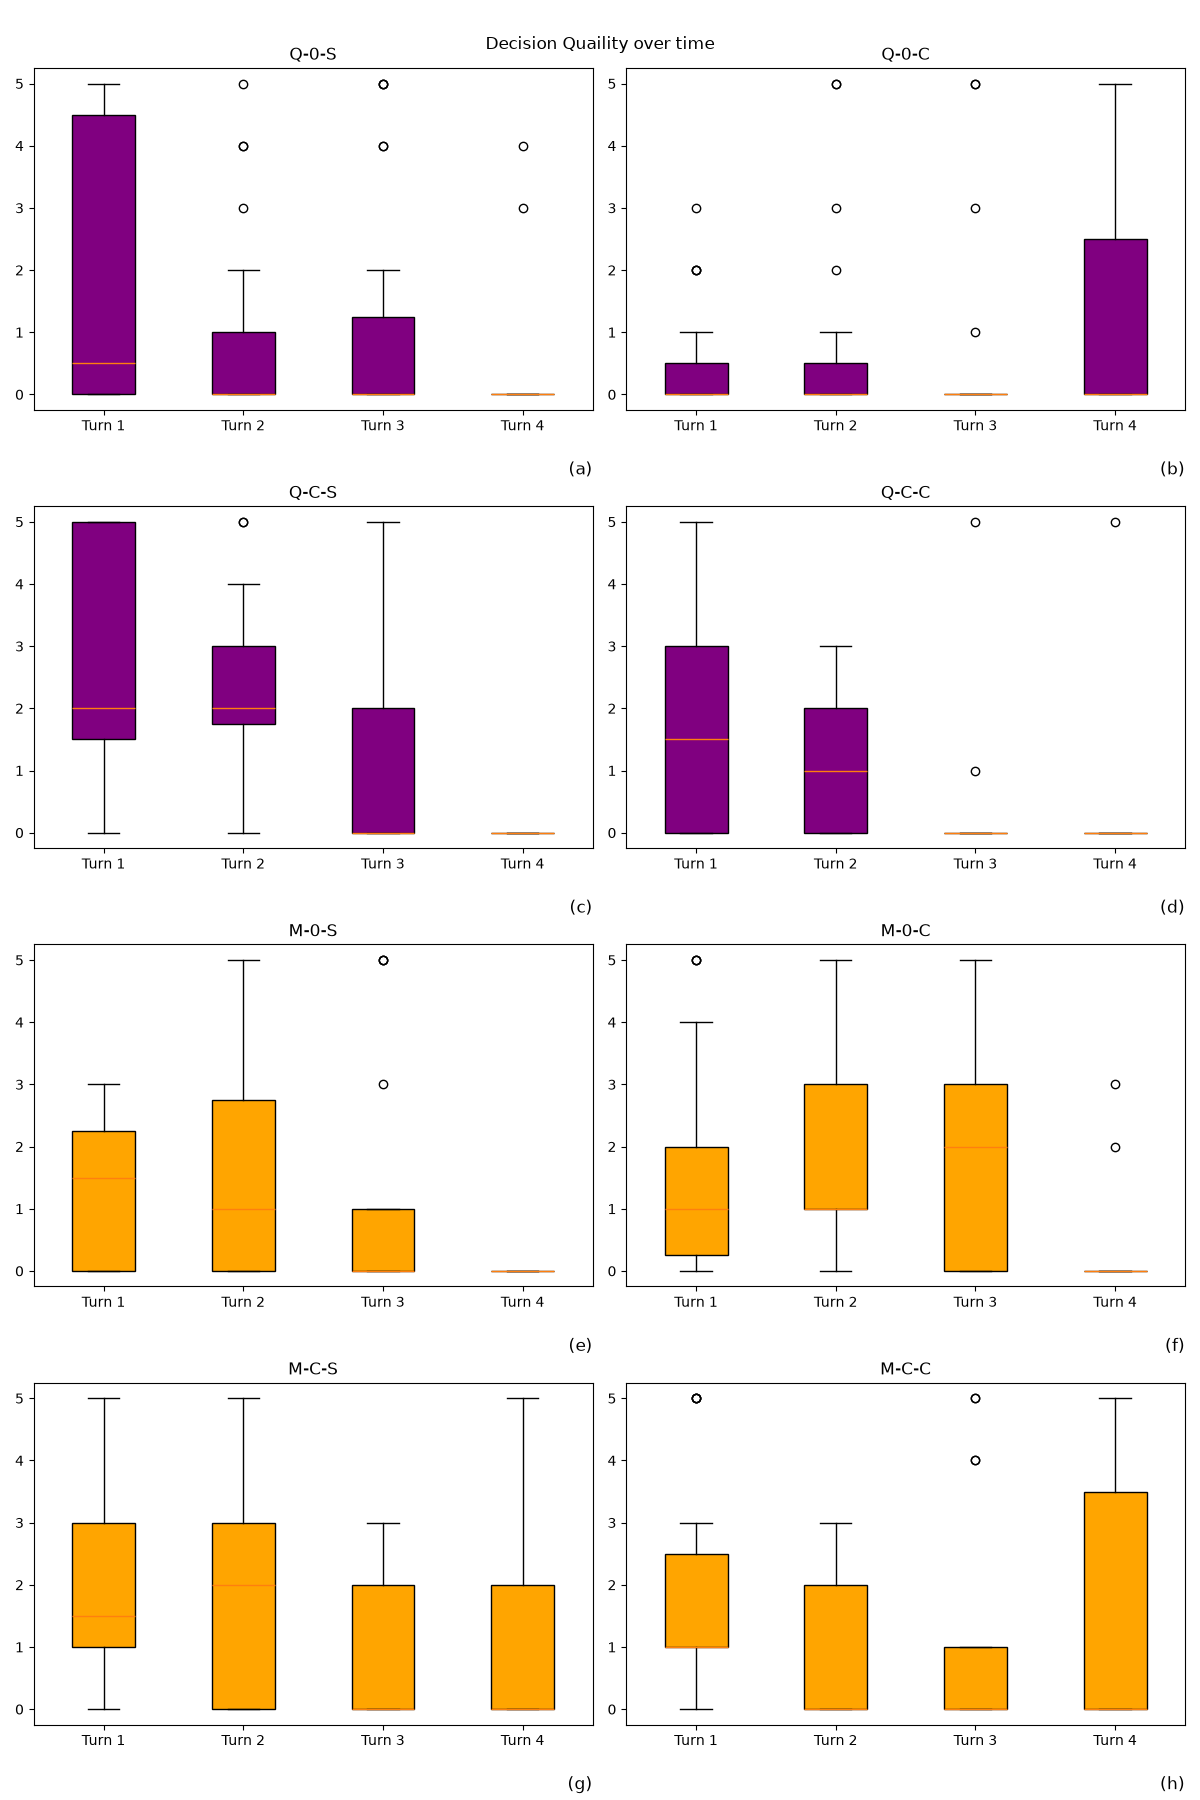
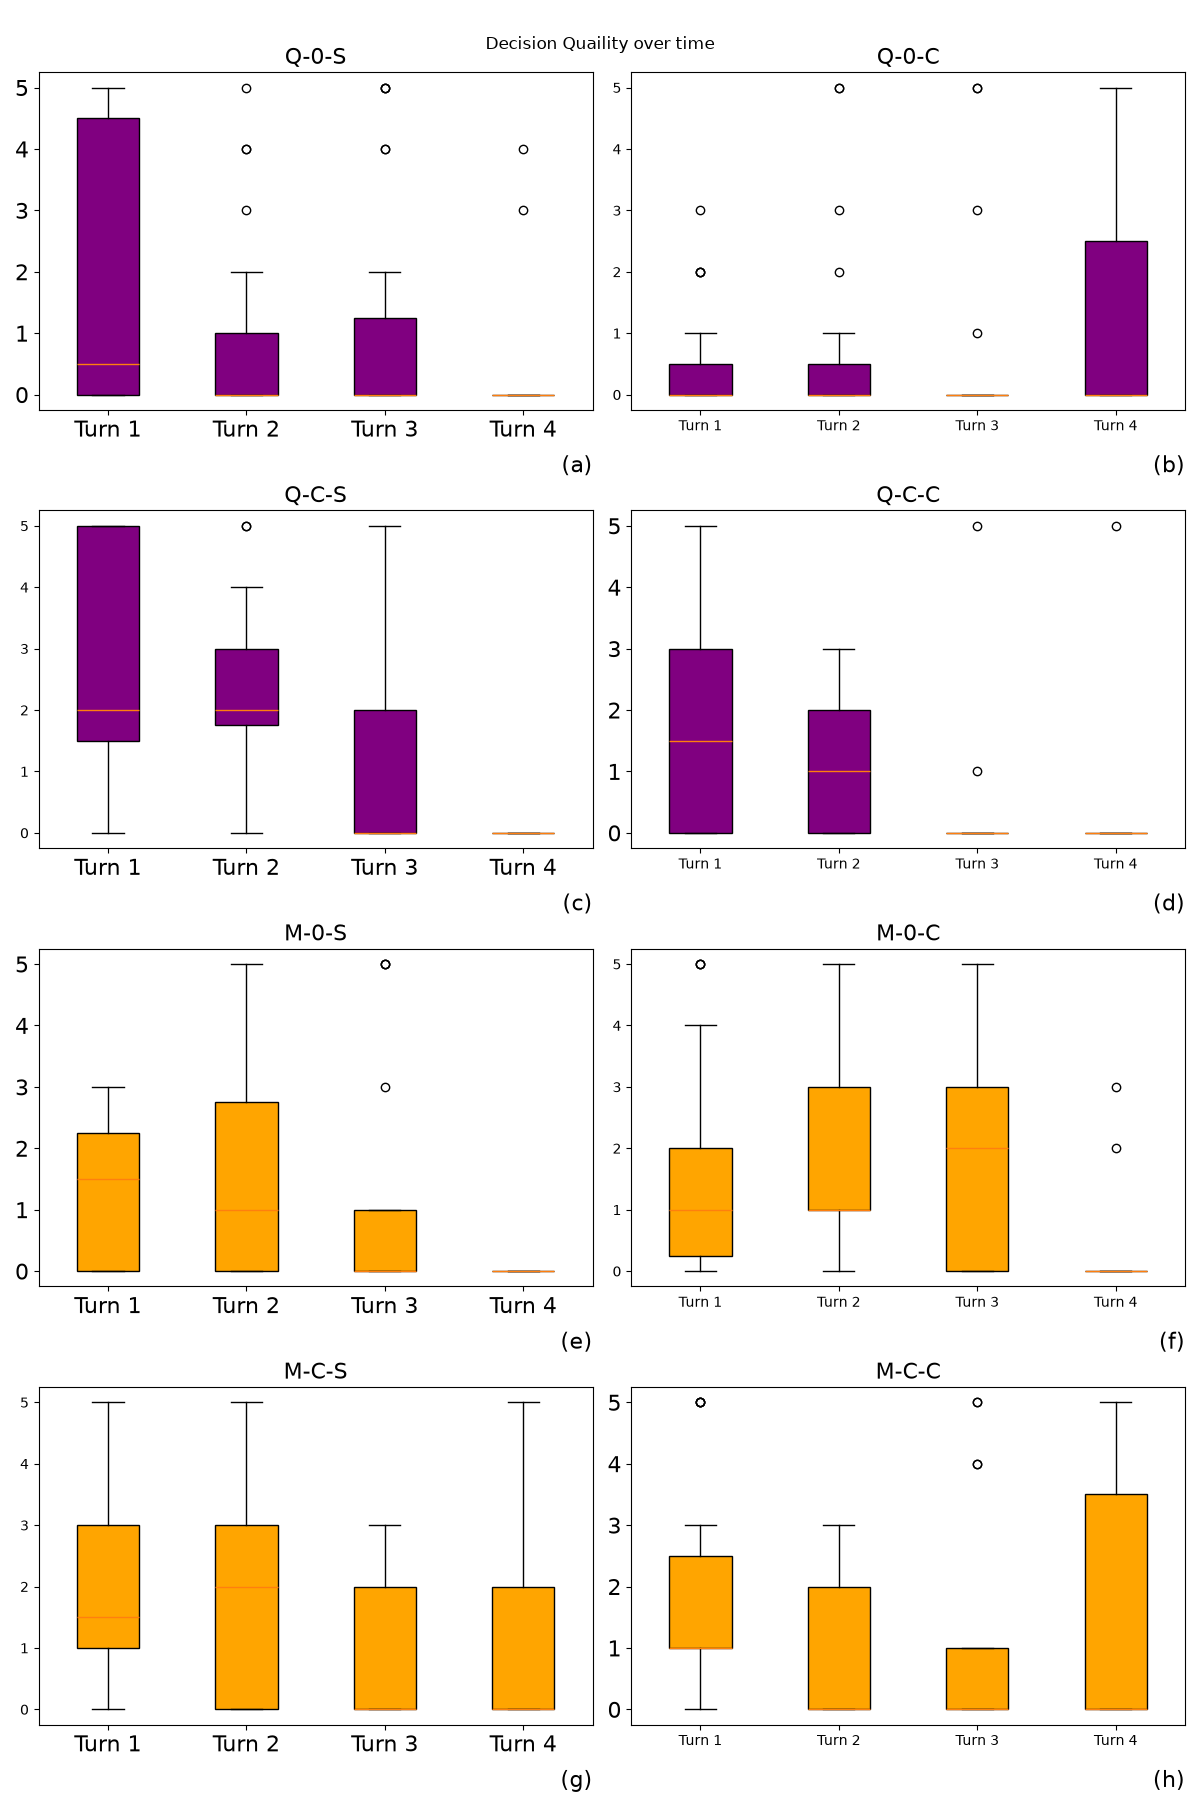
Updated quality over turn

diff --git a/quality_over_turn.py b/quality_over_turn.py
@@ -37,14 +37,14 @@ ax6 = ax[2,1].boxplot([df_cleaned_non_reasoning_dq.loc[(df_cleaned_non_reasoning
 ax7 = ax[3,0].boxplot([df_cleaned_non_reasoning_dq.loc[(df_cleaned_non_reasoning_dq["Scenario"] == "Simple") & (df_cleaned_non_reasoning_dq["Strategy"] == "Context") & (df_cleaned_non_reasoning_dq["Turn"] == 1)]["Decision Quality"], df_cleaned_non_reasoning_dq.loc[(df_cleaned_non_reasoning_dq["Scenario"] == "Simple") & (df_cleaned_non_reasoning_dq["Strategy"] == "Context") & (df_cleaned_non_reasoning_dq["Turn"] == 2)]["Decision Quality"], df_cleaned_non_reasoning_dq.loc[(df_cleaned_non_reasoning_dq["Scenario"] == "Simple") & (df_cleaned_non_reasoning_dq["Strategy"] == "Context") & (df_cleaned_non_reasoning_dq["Turn"] == 3)]["Decision Quality"], df_cleaned_non_reasoning_dq.loc[(df_cleaned_non_reasoning_dq["Scenario"] == "Simple") & (df_cleaned_non_reasoning_dq["Strategy"] == "Context") & (df_cleaned_non_reasoning_dq["Turn"] == 4)]["Decision Quality"]], tick_labels=labels, patch_artist=True)
 ax8 = ax[3,1].boxplot([df_cleaned_non_reasoning_dq.loc[(df_cleaned_non_reasoning_dq["Scenario"] == "Complex") & (df_cleaned_non_reasoning_dq["Strategy"] == "Context") & (df_cleaned_non_reasoning_dq["Turn"] == 1)]["Decision Quality"], df_cleaned_non_reasoning_dq.loc[(df_cleaned_non_reasoning_dq["Scenario"] == "Complex") & (df_cleaned_non_reasoning_dq["Strategy"] == "Context") & (df_cleaned_non_reasoning_dq["Turn"] == 2)]["Decision Quality"], df_cleaned_non_reasoning_dq.loc[(df_cleaned_non_reasoning_dq["Scenario"] == "Complex") & (df_cleaned_non_reasoning_dq["Strategy"] == "Context") & (df_cleaned_non_reasoning_dq["Turn"] == 3)]["Decision Quality"], df_cleaned_non_reasoning_dq.loc[(df_cleaned_non_reasoning_dq["Scenario"] == "Complex") & (df_cleaned_non_reasoning_dq["Strategy"] == "Context") & (df_cleaned_non_reasoning_dq["Turn"] == 4)]["Decision Quality"]], tick_labels=labels, patch_artist=True)
 
-ax[0,0].set_title("Q-0-S")
-ax[0,1].set_title("Q-0-C")
-ax[1,0].set_title("Q-C-S")
-ax[1,1].set_title("Q-C-C")
-ax[2,0].set_title("M-0-S")
-ax[2,1].set_title("M-0-C")
-ax[3,0].set_title("M-C-S")
-ax[3,1].set_title("M-C-C")
+ax[0,0].set_title("Q-0-S", fontsize=16)
+ax[0,1].set_title("Q-0-C", fontsize=16)
+ax[1,0].set_title("Q-C-S", fontsize=16)
+ax[1,1].set_title("Q-C-C", fontsize=16)
+ax[2,0].set_title("M-0-S", fontsize=16)
+ax[2,1].set_title("M-0-C", fontsize=16)
+ax[3,0].set_title("M-C-S", fontsize=16)
+ax[3,1].set_title("M-C-C", fontsize=16)
 
 
 ax[0,0].set_yticks([0,1,2,3,4,5])
@@ -63,7 +63,7 @@ ax[0,0].text(
     transform=ax[0,0].transAxes,      
     verticalalignment='bottom',   
     horizontalalignment='right',  
-    fontsize=12,
+    fontsize=16,
     color='Black'
 )
 ax[0,1].text(
@@ -72,7 +72,7 @@ ax[0,1].text(
     transform=ax[0,1].transAxes,      
     verticalalignment='bottom',   
     horizontalalignment='right',  
-    fontsize=12,
+    fontsize=16,
     color='Black'
 )
 ax[1,0].text(
@@ -81,7 +81,7 @@ ax[1,0].text(
     transform=ax[1,0].transAxes,      
     verticalalignment='bottom',   
     horizontalalignment='right',  
-    fontsize=12,
+    fontsize=16,
     color='Black'
 )
 
@@ -91,7 +91,7 @@ ax[1,1].text(
     transform=ax[1,1].transAxes,      
     verticalalignment='bottom',   
     horizontalalignment='right',  
-    fontsize=12,
+    fontsize=16,
     color='Black'
 )
 ax[2,0].text(
@@ -100,7 +100,7 @@ ax[2,0].text(
     transform=ax[2,0].transAxes,      
     verticalalignment='bottom',   
     horizontalalignment='right',  
-    fontsize=12,
+    fontsize=16,
     color='Black'
 )
 ax[2,1].text(
@@ -109,7 +109,7 @@ ax[2,1].text(
     transform=ax[2,1].transAxes,      
     verticalalignment='bottom',   
     horizontalalignment='right',  
-    fontsize=12,
+    fontsize=16,
     color='Black'
 )
 
@@ -119,7 +119,7 @@ ax[3,0].text(
     transform=ax[3,0].transAxes,      
     verticalalignment='bottom',   
     horizontalalignment='right',  
-    fontsize=12,
+    fontsize=16,
     color='Black'
 )
 ax[3,1].text(
@@ -128,10 +128,18 @@ ax[3,1].text(
     transform=ax[3,1].transAxes,      
     verticalalignment='bottom',   
     horizontalalignment='right',  
-    fontsize=12,
+    fontsize=16,
     color='Black'
 )
 
+ax[0,0].tick_params(axis="x", labelsize=16)
+ax[0,0].tick_params(axis="y", labelsize=16)
+ax[1,0].tick_params(axis="x", labelsize=16)
+ax[1,1].tick_params(axis="y", labelsize=16)
+ax[2,0].tick_params(axis="x", labelsize=16)
+ax[2,0].tick_params(axis="y", labelsize=16)
+ax[3,0].tick_params(axis="x", labelsize=16)
+ax[3,1].tick_params(axis="y", labelsize=16)
 
 qwen = ["purple", "purple", "purple", "purple"]
 mistral = ["orange", "orange", "orange", "orange"]
